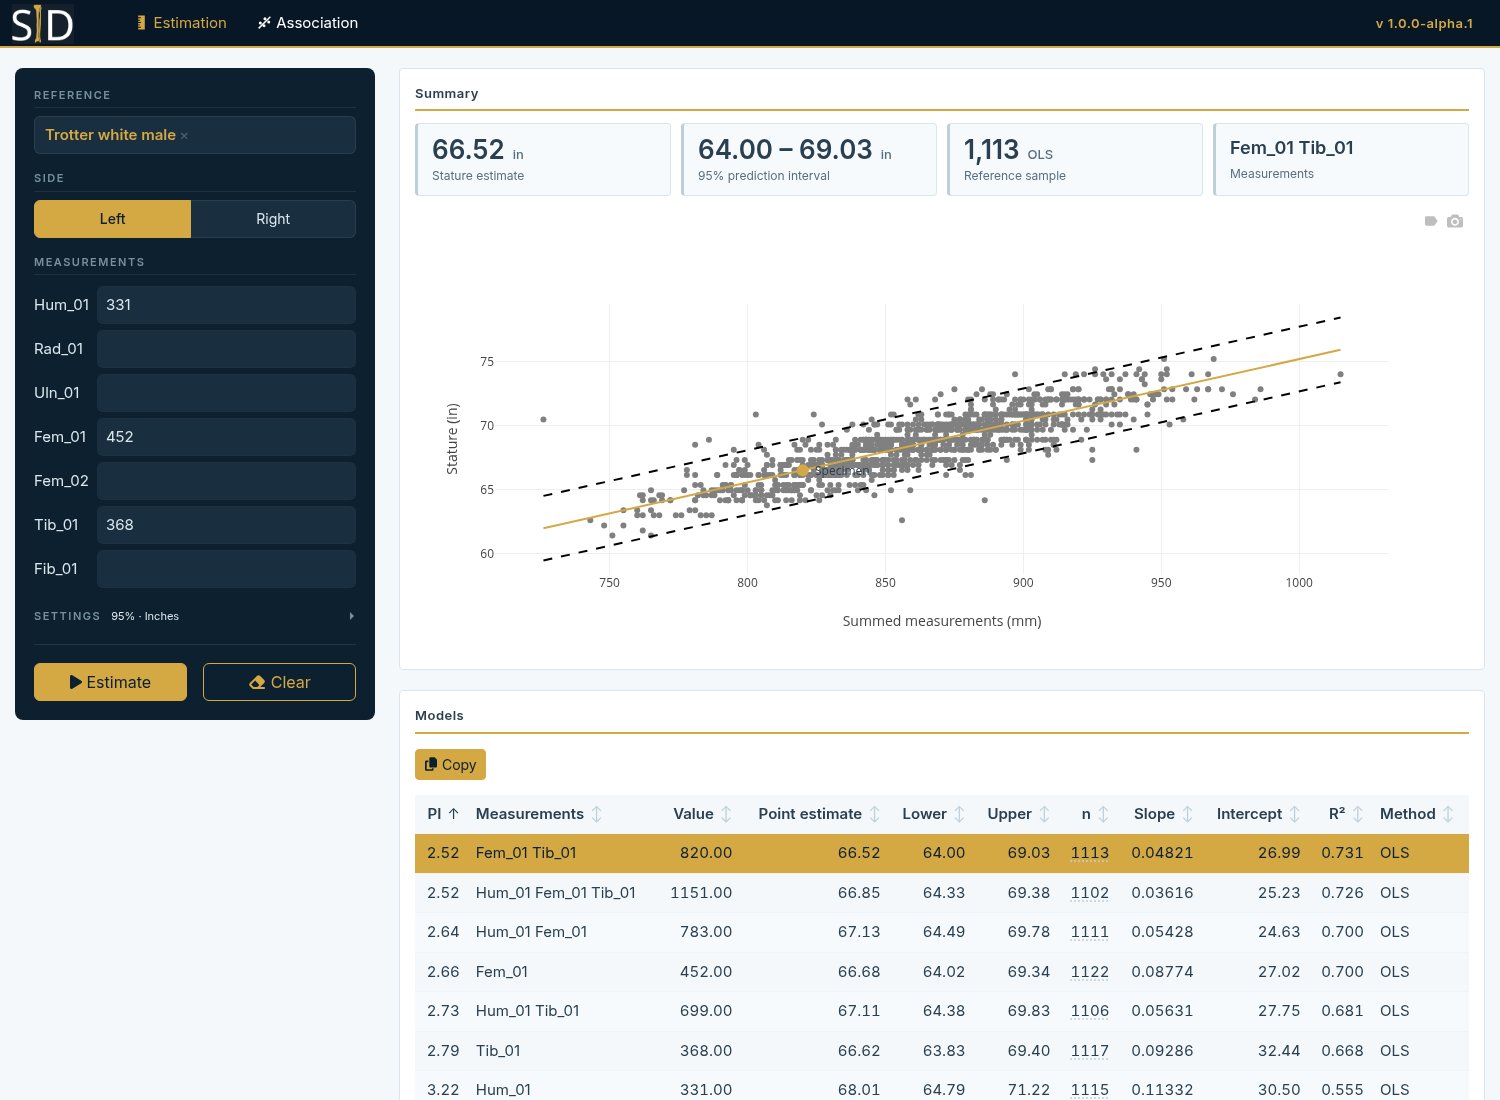
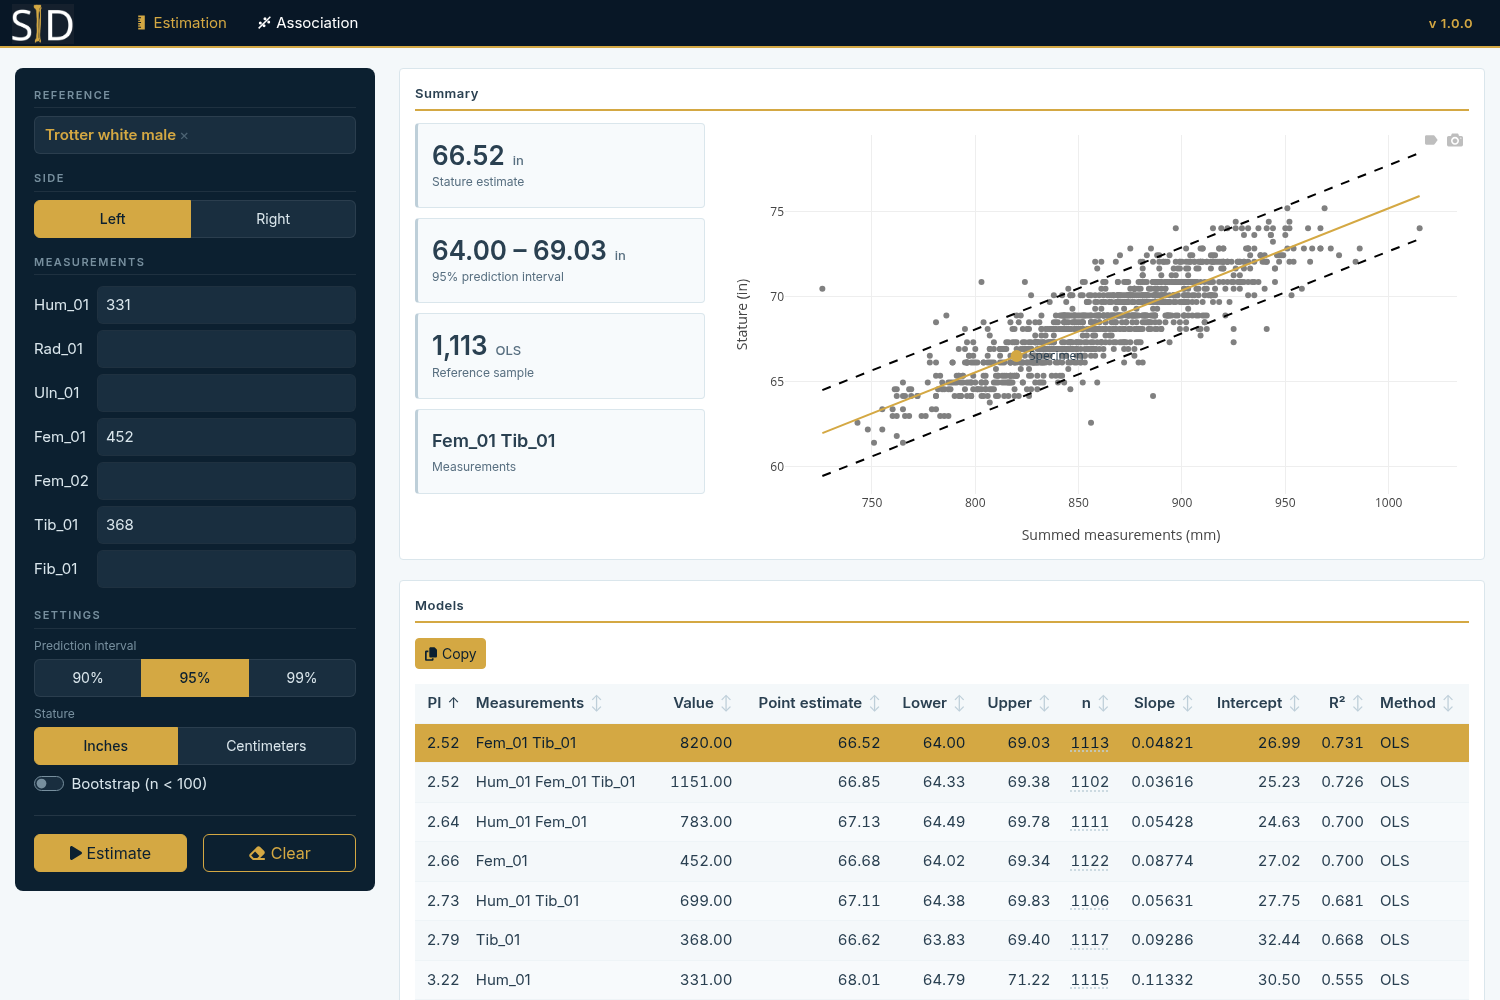
multiple fixes

diff --git a/web/js/common.js b/web/js/common.js
@@ -104,9 +104,8 @@ export function makeSelect(id, onChange, describe) {
 // A choice between a few fixed options, as a row of buttons: a side, the
 // interval, the unit. Read like a dropdown (`getValue`), so the forms treat
 // the two alike.
-export function makeChoice(name, onChange) {
+export function makeChoice(name) {
     const inputs = [...document.querySelectorAll(`input[name="${name}"]`)];
-    for (const input of inputs) input.addEventListener("change", () => onChange && onChange());
     return { getValue: () => inputs.find((input) => input.checked).value };
 }
 
@@ -202,7 +201,7 @@ export const entered = (container) => Object.fromEntries(
 
 // --- Settings (ids prefixed "e-" or "a-") ---
 
-export function initSettings(prefix, onChange) {
+export function initSettings(prefix) {
     const form = $(prefix + "form");
     const checked = (name) => form.querySelector(`input[name="${prefix}${name}"]:checked`).value;
     const bootstrapSwitch = $(prefix + "bootstrap");
@@ -211,9 +210,6 @@ export function initSettings(prefix, onChange) {
         unit: checked("unit"),
         ...(bootstrapSwitch ? { bootstrap: bootstrapSwitch.checked } : {}),
     });
-    const refresh = () => onChange && onChange(settings());
-    form.addEventListener("change", refresh);
-    refresh();
     return { settings };
 }
 
@@ -284,10 +280,13 @@ $("image-form").addEventListener("submit", (event) => {
 // that is captioned elsewhere. The choice holds for later plots too, until
 // the button is pressed again.
 let labelsHidden = false;
-function toggleLabels(plot) {
+function toggleLabels() {
     labelsHidden = !labelsHidden;
-    const labels = plot.layout.annotations ?? [];
-    if (labels.length) Plotly.relayout(plot, Object.fromEntries(labels.map((_, i) => [`annotations[${i}].visible`, !labelsHidden])));
+    // on every plot drawn, not only the one whose button was pressed, so none is out of step with the choice
+    for (const plot of document.querySelectorAll(".js-plotly-plot")) {
+        const labels = plot.layout.annotations ?? [];
+        if (labels.length) Plotly.relayout(plot, Object.fromEntries(labels.map((_, i) => [`annotations[${i}].visible`, !labelsHidden])));
+    }
 }
 const LABEL_ICON = { width: 24, height: 24,
     path: "M17.63 5.84C17.27 5.33 16.67 5 16 5L5 5.01C3.9 5.01 3 5.9 3 7v10c0 1.1.9 1.99 2 1.99L16 19c.67 0 1.27-.33 1.63-.84L22 12l-4.37-6.16z" };

diff --git a/web/index.html b/web/index.html
@@ -4,6 +4,7 @@
     <meta charset="utf-8">
     <meta name="viewport" content="width=device-width, initial-scale=1">
     <title>SID</title>
+    <link rel="icon" type="image/svg+xml" href="img/favicon.svg">
     <link rel="stylesheet" href="vendor/bootstrap-flatly.min.css">
     <link rel="stylesheet" href="vendor/tom-select.bootstrap5.min.css">
     <link rel="stylesheet" href="css/sid.css">
